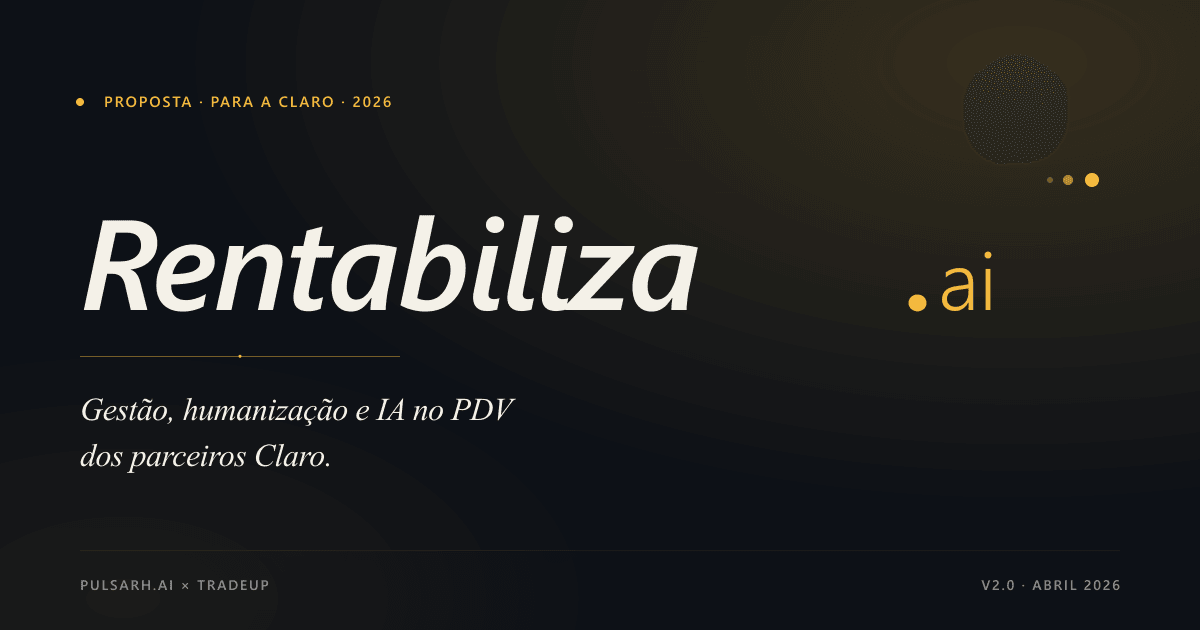
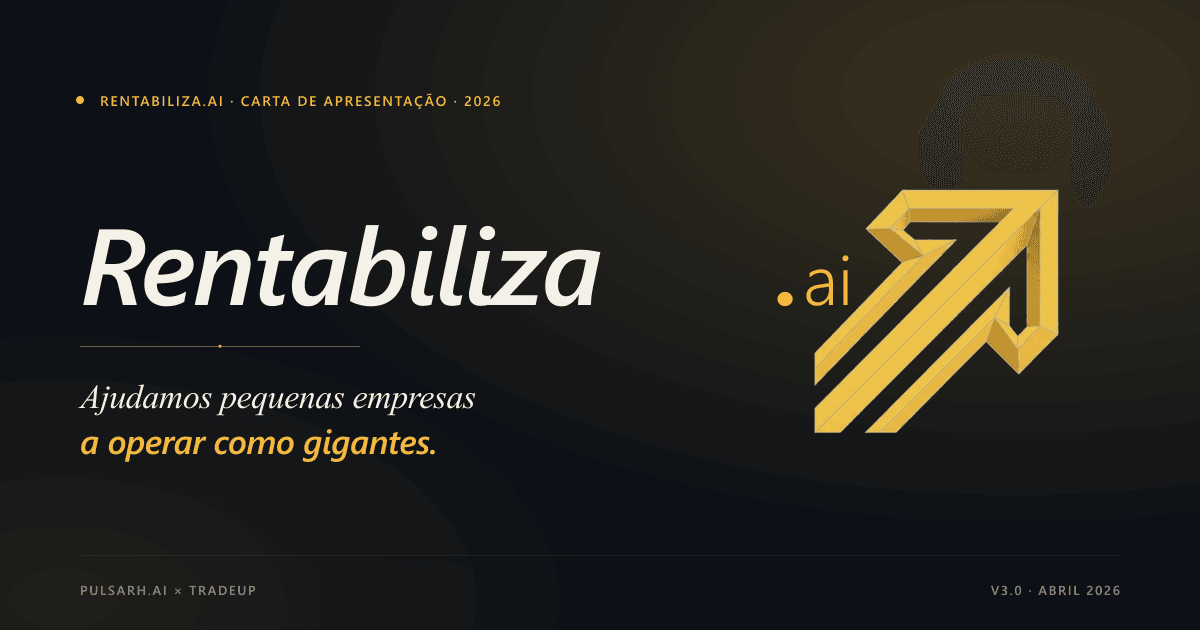
V5.1 — Limpa todas referências a "Claro" nos meta tags + nova OG image
- Title, description, og:title, og:description, twitter:title/description
  removidas em index.html, doc.html, slides.html (4 arquivos no total)
- Nova OG image 1200×630: noite profunda + wordmark Rentabiliza.ai gigante
  + chevron logo composto via sharp + tagline "Ajudamos pequenas empresas
  a operar como gigantes." + strip "PULSARH.AI × TRADEUP · V3.0 · ABRIL 2026"
- Sem qualquer menção a Claro no preview WhatsApp/LinkedIn/Twitter

diff --git a/index.html b/index.html
@@ -3,13 +3,13 @@
 <head>
   <meta charset="UTF-8">
   <meta name="viewport" content="width=device-width, initial-scale=1.0">
-  <title>Rentabiliza.ai — para a Claro</title>
-  <meta name="description" content="Rentabiliza.ai — plataforma de gestão, humanização e IA aplicada ao PDV de parceiros de telecom. Para a Claro. Uma iniciativa PulsarH.ai × TradeUp.">
+  <title>Rentabiliza.ai</title>
+  <meta name="description" content="Rentabiliza.ai — plataforma que une pessoas, processos e IA para ajudar pequenas empresas a operar como gigantes. PulsarH.ai × TradeUp.">
 
   <!-- Open Graph -->
   <meta property="og:type" content="website">
-  <meta property="og:title" content="Rentabiliza.ai · para a Claro">
-  <meta property="og:description" content="Gestão, humanização e IA no PDV dos parceiros Claro — PulsarH.ai × TradeUp.">
+  <meta property="og:title" content="Rentabiliza.ai">
+  <meta property="og:description" content="Ajudamos pequenas empresas a operar como gigantes. Pessoas, processos e IA — instalados dentro do negócio.">
   <meta property="og:image" content="https://claro-acelera.vercel.app/assets/images/og-image.png">
   <meta property="og:image:width" content="1200">
   <meta property="og:image:height" content="630">
@@ -20,8 +20,8 @@
 
   <!-- Twitter -->
   <meta name="twitter:card" content="summary_large_image">
-  <meta name="twitter:title" content="Rentabiliza.ai · para a Claro">
-  <meta name="twitter:description" content="Gestão, humanização e IA no PDV dos parceiros Claro.">
+  <meta name="twitter:title" content="Rentabiliza.ai">
+  <meta name="twitter:description" content="Ajudamos pequenas empresas a operar como gigantes.">
   <meta name="twitter:image" content="https://claro-acelera.vercel.app/assets/images/og-image.png">
 
   <meta name="theme-color" content="#0D1117">

diff --git a/doc.html b/doc.html
@@ -3,13 +3,13 @@
 <head>
   <meta charset="UTF-8">
   <meta name="viewport" content="width=device-width, initial-scale=1.0">
-  <title>Rentabiliza.ai · Business Case · para a Claro</title>
-  <meta name="description" content="Rentabiliza.ai — plataforma de gestão, humanização e IA aplicada ao PDV dos parceiros Claro. Business case completo.">
+  <title>Rentabiliza.ai · Business Case</title>
+  <meta name="description" content="Business case completo do Rentabiliza.ai — método, arquitetura dos pacotes, cenários de escala com KPI auditável e plano de go-to-market.">
 
   <!-- Open Graph -->
   <meta property="og:type" content="article">
-  <meta property="og:title" content="Rentabiliza.ai · Business Case para a Claro">
-  <meta property="og:description" content="Business case completo — 13 seções, 5 pacotes, 3 cenários de escala e plano de go-to-market.">
+  <meta property="og:title" content="Rentabiliza.ai · Business Case">
+  <meta property="og:description" content="Business case completo — método, arquitetura dos pacotes, cenários de escala e plano de go-to-market.">
   <meta property="og:image" content="https://claro-acelera.vercel.app/assets/images/og-image.png">
   <meta property="og:url" content="https://claro-acelera.vercel.app/doc.html">
   <meta property="og:image:width" content="1200">
@@ -19,7 +19,7 @@
 
   <!-- Twitter Card -->
   <meta name="twitter:card" content="summary_large_image">
-  <meta name="twitter:title" content="Rentabiliza.ai · Business Case para a Claro">
+  <meta name="twitter:title" content="Rentabiliza.ai · Business Case">
   <meta name="twitter:image" content="https://claro-acelera.vercel.app/assets/images/og-image.png">
 
   <meta name="theme-color" content="#0D1117">

diff --git a/slides.html b/slides.html
@@ -3,13 +3,13 @@
 <head>
   <meta charset="UTF-8">
   <meta name="viewport" content="width=device-width, initial-scale=1.0">
-  <title>Rentabiliza.ai · Pitch Executivo · para a Claro</title>
-  <meta name="description" content="Rentabiliza.ai — pitch executivo em 12 slides. Plataforma de gestão, humanização e IA aplicada ao PDV dos parceiros Claro.">
+  <title>Rentabiliza.ai · Pitch Executivo</title>
+  <meta name="description" content="Pitch executivo do Rentabiliza.ai em 12 slides — business case condensado para conduzir decisão executiva em 30 minutos.">
 
   <!-- Open Graph -->
   <meta property="og:type" content="article">
-  <meta property="og:title" content="Rentabiliza.ai · Pitch Executivo para a Claro">
-  <meta property="og:description" content="Apresentação executiva em 12 slides — business case condensado para reunião de diretoria.">
+  <meta property="og:title" content="Rentabiliza.ai · Pitch Executivo">
+  <meta property="og:description" content="12 slides para conduzir decisão executiva em 30 minutos.">
   <meta property="og:image" content="https://claro-acelera.vercel.app/assets/images/og-image.png">
   <meta property="og:url" content="https://claro-acelera.vercel.app/slides.html">
   <meta property="og:image:width" content="1200">
@@ -19,7 +19,7 @@
 
   <!-- Twitter Card -->
   <meta name="twitter:card" content="summary_large_image">
-  <meta name="twitter:title" content="Rentabiliza.ai · Pitch Executivo para a Claro">
+  <meta name="twitter:title" content="Rentabiliza.ai · Pitch Executivo">
   <meta name="twitter:image" content="https://claro-acelera.vercel.app/assets/images/og-image.png">
 
   <meta name="theme-color" content="#0D1117">